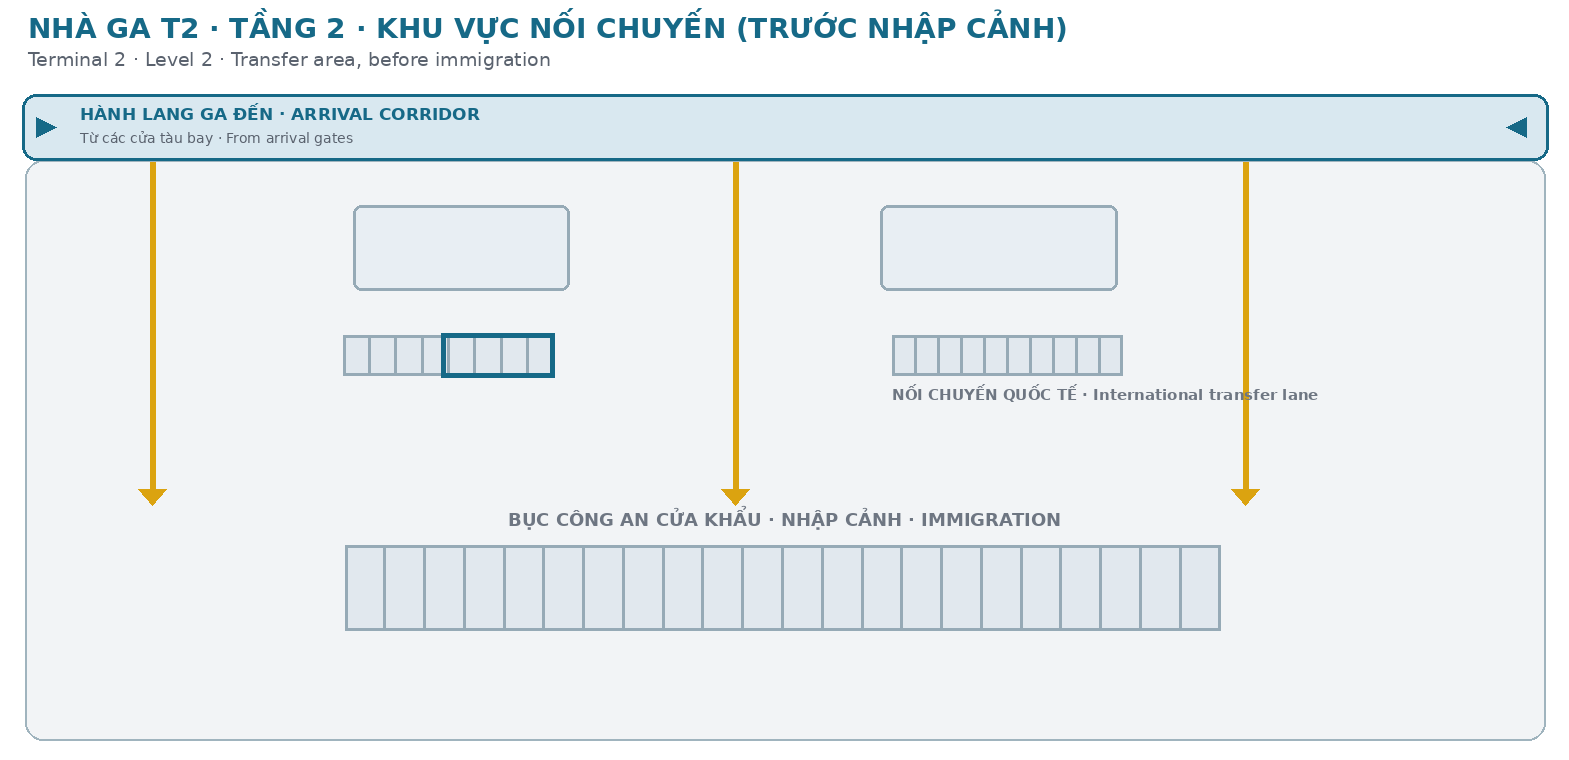
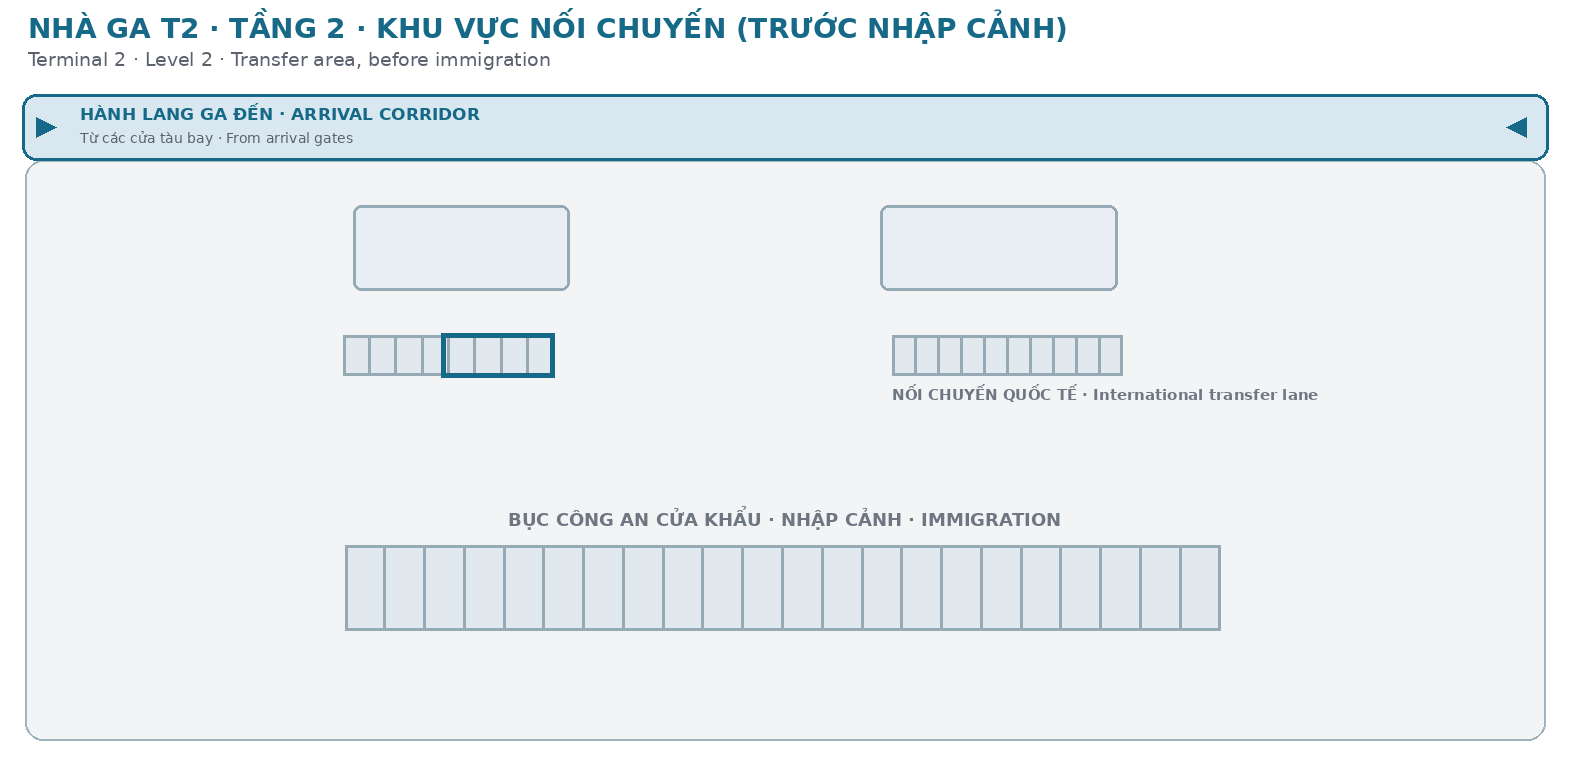
Cap nhat noi dung

Changed region(s): [[0.7808, 0.2118, 0.812, 0.6658], [0.0937, 0.2118, 0.1249, 0.6658], [0.4372, 0.6355, 0.4997, 0.6658]]

diff --git a/sw.js b/sw.js
@@ -1,1 +1,1 @@
-if(!self.define){let e,n={};const i=(i,o)=>(i=new URL(i+".js",o).href,n[i]||new Promise(n=>{if("document"in self){const e=document.createElement("script");e.src=i,e.onload=n,document.head.appendChild(e)}else e=i,importScripts(i),n()}).then(()=>{let e=n[i];if(!e)throw new Error(`Module ${i} didn’t register its module`);return e}));self.define=(o,s)=>{const c=e||("document"in self?document.currentScript.src:"")||location.href;if(n[c])return;let r={};const d=e=>i(e,c),a={module:{uri:c},exports:r,require:d};n[c]=Promise.all(o.map(e=>a[e]||d(e))).then(e=>(s(...e),r))}}define(["./workbox-9e0cfdd6"],function(e){"use strict";self.skipWaiting(),e.clientsClaim(),e.precacheAndRoute([{url:"manifest.json",revision:"04715520d4bdbe12ac1fe0ef9a5e6c8a"},{url:"index.html",revision:"10a74ed7cce3427da203c4a01e269f28"},{url:"map/t2-noi-chuyen-qt-qt.png",revision:"92bbce650d9a0d26604afa39db96b397"},{url:"map/t2-l2-noi-chuyen.png",revision:"b63dd5f122574ff77dc53d5839090ae9"},{url:"map/t2-khu-noi-chuyen.truoc-ve-tay.png",revision:"d506c9ff9ec5b7a7556d3b7ca7a62443"},{url:"map/t2-khu-noi-chuyen.truoc-bo-quay.png",revision:"6a3794443adcef3c4e07cadd66193851"},{url:"map/t2-khu-noi-chuyen.png",revision:"1e812879505e9d2c953eb22b674dde14"},{url:"map/t2-ga-den.png",revision:"1935ee08b253474e0dddd6dd300eaf47"},{url:"map/t2-departure.png",revision:"04ee0c56f20522ca06938a71f9fbb709"},{url:"map/t1-t2-qt-nd.png",revision:"9d6993093605993307db60b0380e1f02"},{url:"map/t1-t2-noi-chuyen.png",revision:"5cd610c697ff6740eb52aa59cd9571df"},{url:"map/t1-l1-arrivals.svg",revision:"2c6323c0f7ffc9eed3c9691eb909c188"},{url:"map/t1-l1-arrivals.png",revision:"2617bb8c54cba57c5ad8324d6c02e5b5"},{url:"map/t1-gates.svg",revision:"5fdb8aeb589fabb81d8b116342093046"},{url:"map/t1-gates.png",revision:"a7a1185776e47a518f7eec9f7774c56e"},{url:"icons/icon-512.png",revision:"e10052c2ca4830e706ba55ba90002ce6"},{url:"icons/icon-192.png",revision:"5470cd9958be5f58c83565b5ba1a3027"},{url:"content/touchpoints.json",revision:"7ed2e2fb7b115c214370f15b963a9772"},{url:"content/survey.json",revision:"478d69f0614df2ddf47998c8155464e4"},{url:"content/settings.json",revision:"8d52e4f3429d3c6e4df21c047a039dff"},{url:"content/rules.json",revision:"9d41a4685fd972bdd71626ddf46b327b"},{url:"content/routes.json",revision:"7df057f7d9829620ad55f463e1516747"},{url:"content/notices.json",revision:"d751713988987e9331980363e24189ce"},{url:"content/map_points.json",revision:"e228e7ad70547fbc812a0ae0e69f85c4"},{url:"content/maps.json",revision:"0b8fdd7b62dde7ab05abd391c1a15c24"},{url:"content/labels.json",revision:"aa9d62368eb72c8d5f4bea72311556d9"},{url:"content/intents.json",revision:"483ca8ce80d7ad7b05c319629a8789ad"},{url:"content/guides.json",revision:"f7109624e7c8b32d44030cbcf9274dd5"},{url:"content/flights.json",revision:"71dd8b3df6ada5ed34d00903e006635f"},{url:"brand/lotus-gold.svg",revision:"2eb29c4798f87337f664cc01ffdbec78"},{url:"brand/logo-vna.svg",revision:"92652542bd640ed570b738850ecba742"},{url:"assets/workbox-window.prod.es5-BBnX5xw4.js",revision:null},{url:"assets/index-BtAZcFHF.js",revision:null},{url:"assets/index-BOn0bLyI.css",revision:null},{url:"brand/logo-vna.svg",revision:"92652542bd640ed570b738850ecba742"},{url:"brand/lotus-gold.svg",revision:"2eb29c4798f87337f664cc01ffdbec78"},{url:"icons/icon-192.png",revision:"5470cd9958be5f58c83565b5ba1a3027"},{url:"icons/icon-512.png",revision:"e10052c2ca4830e706ba55ba90002ce6"}],{}),e.cleanupOutdatedCaches(),e.registerRoute(new e.NavigationRoute(e.createHandlerBoundToURL("index.html"))),e.registerRoute(({url:e})=>e.pathname.startsWith("/api/flights"),new e.NetworkFirst({cacheName:"flights",plugins:[new e.ExpirationPlugin({maxAgeSeconds:60})]}),"GET"),e.registerRoute(({url:e})=>e.pathname.startsWith("/content/")||e.pathname.startsWith("/images/"),new e.StaleWhileRevalidate({cacheName:"content",plugins:[new e.ExpirationPlugin({maxAgeSeconds:86400})]}),"GET")});
+if(!self.define){let e,n={};const i=(i,o)=>(i=new URL(i+".js",o).href,n[i]||new Promise(n=>{if("document"in self){const e=document.createElement("script");e.src=i,e.onload=n,document.head.appendChild(e)}else e=i,importScripts(i),n()}).then(()=>{let e=n[i];if(!e)throw new Error(`Module ${i} didn’t register its module`);return e}));self.define=(o,s)=>{const c=e||("document"in self?document.currentScript.src:"")||location.href;if(n[c])return;let r={};const d=e=>i(e,c),a={module:{uri:c},exports:r,require:d};n[c]=Promise.all(o.map(e=>a[e]||d(e))).then(e=>(s(...e),r))}}define(["./workbox-9e0cfdd6"],function(e){"use strict";self.skipWaiting(),e.clientsClaim(),e.precacheAndRoute([{url:"manifest.json",revision:"04715520d4bdbe12ac1fe0ef9a5e6c8a"},{url:"index.html",revision:"10a74ed7cce3427da203c4a01e269f28"},{url:"map/t2-noi-chuyen-qt-qt.png",revision:"92bbce650d9a0d26604afa39db96b397"},{url:"map/t2-l2-noi-chuyen.png",revision:"b63dd5f122574ff77dc53d5839090ae9"},{url:"map/t2-khu-noi-chuyen.truoc-ve-tay.png",revision:"d506c9ff9ec5b7a7556d3b7ca7a62443"},{url:"map/t2-khu-noi-chuyen.truoc-bo-quay.png",revision:"6a3794443adcef3c4e07cadd66193851"},{url:"map/t2-khu-noi-chuyen.png",revision:"afa1325519625f745b262d86d5504029"},{url:"map/t2-ga-den.png",revision:"1935ee08b253474e0dddd6dd300eaf47"},{url:"map/t2-departure.png",revision:"04ee0c56f20522ca06938a71f9fbb709"},{url:"map/t1-t2-qt-nd.png",revision:"9d6993093605993307db60b0380e1f02"},{url:"map/t1-t2-noi-chuyen.png",revision:"5cd610c697ff6740eb52aa59cd9571df"},{url:"map/t1-l1-arrivals.svg",revision:"2c6323c0f7ffc9eed3c9691eb909c188"},{url:"map/t1-l1-arrivals.png",revision:"2617bb8c54cba57c5ad8324d6c02e5b5"},{url:"map/t1-gates.svg",revision:"5fdb8aeb589fabb81d8b116342093046"},{url:"map/t1-gates.png",revision:"a7a1185776e47a518f7eec9f7774c56e"},{url:"icons/icon-512.png",revision:"e10052c2ca4830e706ba55ba90002ce6"},{url:"icons/icon-192.png",revision:"5470cd9958be5f58c83565b5ba1a3027"},{url:"content/touchpoints.json",revision:"7ed2e2fb7b115c214370f15b963a9772"},{url:"content/survey.json",revision:"478d69f0614df2ddf47998c8155464e4"},{url:"content/settings.json",revision:"8d52e4f3429d3c6e4df21c047a039dff"},{url:"content/rules.json",revision:"9d41a4685fd972bdd71626ddf46b327b"},{url:"content/routes.json",revision:"7df057f7d9829620ad55f463e1516747"},{url:"content/notices.json",revision:"d751713988987e9331980363e24189ce"},{url:"content/map_points.json",revision:"cbb1f148f404d5280ed7d667e461d431"},{url:"content/maps.json",revision:"0b8fdd7b62dde7ab05abd391c1a15c24"},{url:"content/labels.json",revision:"aa9d62368eb72c8d5f4bea72311556d9"},{url:"content/intents.json",revision:"483ca8ce80d7ad7b05c319629a8789ad"},{url:"content/guides.json",revision:"f7109624e7c8b32d44030cbcf9274dd5"},{url:"content/flights.json",revision:"51d28d2533ad9658a32d909fa6ccab70"},{url:"brand/lotus-gold.svg",revision:"2eb29c4798f87337f664cc01ffdbec78"},{url:"brand/logo-vna.svg",revision:"92652542bd640ed570b738850ecba742"},{url:"assets/workbox-window.prod.es5-BBnX5xw4.js",revision:null},{url:"assets/index-BtAZcFHF.js",revision:null},{url:"assets/index-BOn0bLyI.css",revision:null},{url:"brand/logo-vna.svg",revision:"92652542bd640ed570b738850ecba742"},{url:"brand/lotus-gold.svg",revision:"2eb29c4798f87337f664cc01ffdbec78"},{url:"icons/icon-192.png",revision:"5470cd9958be5f58c83565b5ba1a3027"},{url:"icons/icon-512.png",revision:"e10052c2ca4830e706ba55ba90002ce6"}],{}),e.cleanupOutdatedCaches(),e.registerRoute(new e.NavigationRoute(e.createHandlerBoundToURL("index.html"))),e.registerRoute(({url:e})=>e.pathname.startsWith("/api/flights"),new e.NetworkFirst({cacheName:"flights",plugins:[new e.ExpirationPlugin({maxAgeSeconds:60})]}),"GET"),e.registerRoute(({url:e})=>e.pathname.startsWith("/content/")||e.pathname.startsWith("/images/"),new e.StaleWhileRevalidate({cacheName:"content",plugins:[new e.ExpirationPlugin({maxAgeSeconds:86400})]}),"GET")});
